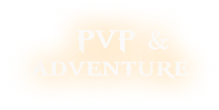
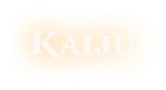
change size

diff --git a/frontend/css/index.css b/frontend/css/index.css
@@ -437,7 +437,7 @@ z-index: 1;
   width: 2.3rem;
   height: 1rem;
   background: url(../images/box4/text/Beast.png) no-repeat center;
-  background-size: 70%;
+  background-size: 100%;
 }
 .jade .text6 {
   position: absolute;
@@ -446,7 +446,7 @@ z-index: 1;
   width: 2.3rem;
   height: 1rem;
   background: url(../images/box4/text/WAR.png) no-repeat;
-  background-size: 100%;
+  background-size: 90%;
 }
 .jade .area1 {
   position: absolute;
@@ -889,7 +889,7 @@ z-index: 1;
   width: 1rem;
   height: 0.4rem;
   background: url(../images/box4/text/Beast.png) no-repeat center;
-  background-size: 70%;
+  background-size: 100%;
 }
 .jade .text6 {
   position: absolute;
@@ -898,7 +898,7 @@ z-index: 1;
   width: 1rem;
   height: 0.5rem;
   background: url(../images/box4/text/WAR.png) no-repeat;
-  background-size: 100%;
+  background-size: 90%;
 }
 .jade .area1 {
   position: absolute;

diff --git a/frontend/index.html b/frontend/index.html
@@ -316,7 +316,7 @@ area5.addEventListener('mouseleave', () => {
   area5.style.cursor = 'default';
   text6.style.backgroundImage = "url(./images/box4/text/WAR.png)";
     text6.style.transition = 'background-image 0.1s ease-in-out';
-    text6.style.backgroundSize  = '100%';
+    text6.style.backgroundSize  = '90%';
   backImage.style.backgroundImage = `url(${preloadImages[6]})`;
 });
 area6.addEventListener('mouseenter', async () => {
@@ -337,7 +337,7 @@ area6.addEventListener('mouseleave', () => {
   area6.style.cursor = 'default';
   text5.style.backgroundImage = "url(./images/box4/text/Beast.png)";
     text5.style.transition = 'background-image 0.1s ease-in-out';
-    text5.style.backgroundSize  = '70%';
+    text5.style.backgroundSize  = '100%';
   backImage.style.backgroundImage = `url(${preloadImages[6]})`;
 });
 const avatars = document.querySelectorAll('.avatar');
